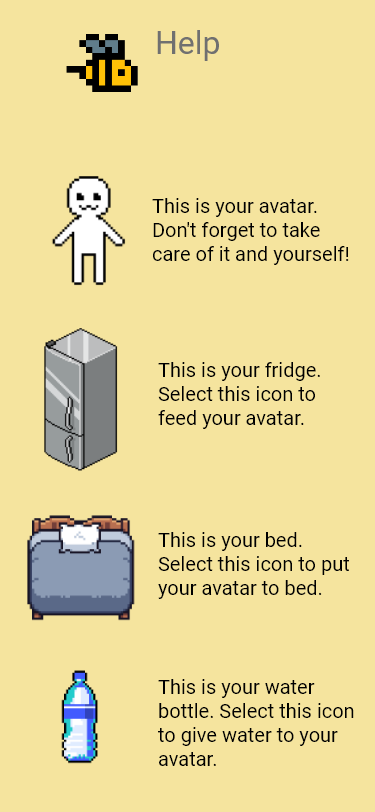
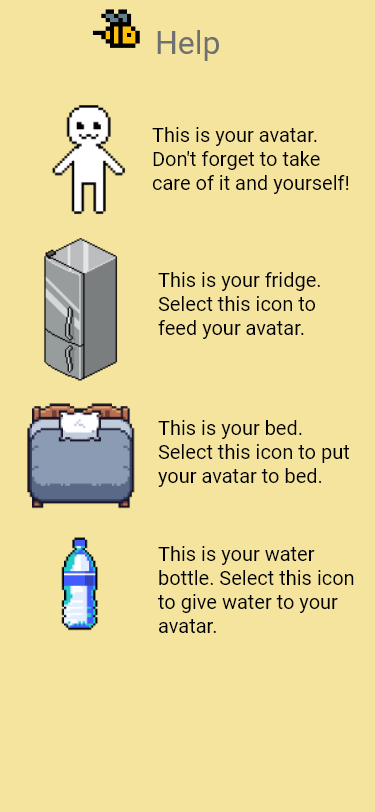
able to open and close help screen

diff --git a/home.html b/home.html
@@ -69,13 +69,27 @@
       <div id="settingsText"> Settings </div>
     </a>
 
-    <a >
+    <button onclick="closeHelpScreen()" id="helpCloseBtn">X</button>
+
+    <a onclick="openHelpScreen()">
       <img src="images/help.png" id="help" alt="help">
       <div id="helpText"> Help </div>
     </a>
-
+    <div>
+      <img src="images/HelpScreen.png" id="helpScreen" alt="helpScreen">
+    </div>
 
     <script>
+      function openHelpScreen() {
+        document.getElementById("helpScreen").style.display = "block";
+        document.getElementById("helpCloseBtn").style.display = "block";
+      }
+
+      function closeHelpScreen() {
+        document.getElementById("helpScreen").style.display = "none";
+        document.getElementById("helpCloseBtn").style.display = "none";
+      }
+
       function lightsOn() {
         document.getElementById("overlay").style.display = "none";
         document.getElementById("avatar").style.top = '50%';

diff --git a/style.css b/style.css
@@ -68,6 +68,23 @@ body, html {
   width: auto;
 }
 
+#helpCloseBtn {
+  display: none;
+  position: absolute;
+  top:2%;
+  right: 2%;
+  z-index:4001;
+}
+
+#helpScreen {
+  display: none;
+  z-index: 4000;
+  position: absolute;
+  height: auto;
+  width: 100%;
+  top: 0;
+}
+
 #help {
   position: absolute;
   bottom: 5%;
